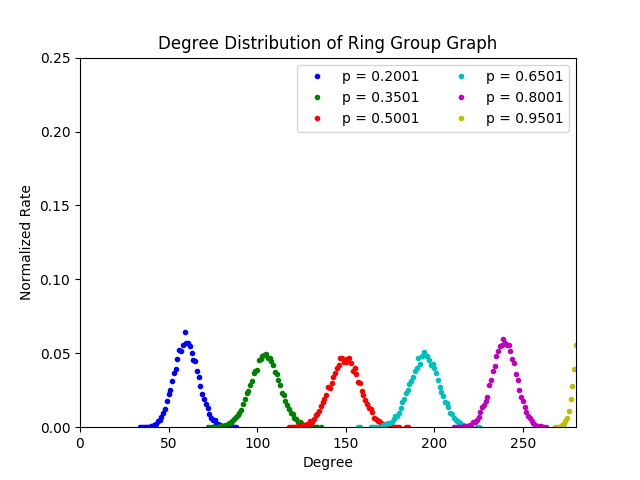
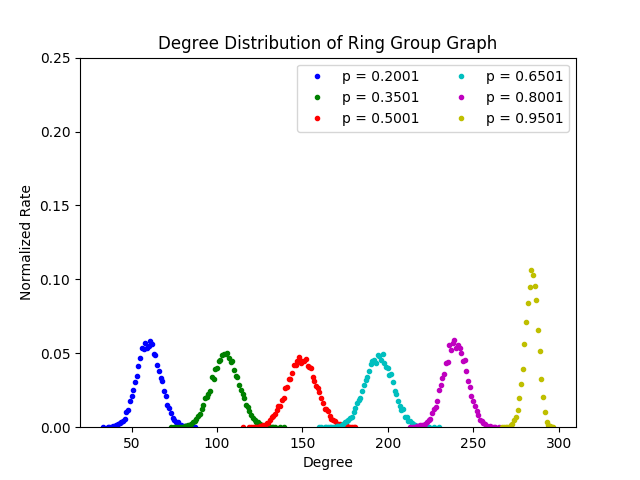
added more graphs for q1 (m=6)

Changed region(s): [[0.1562, 0.5625, 0.9062, 0.9375]]

diff --git a/q1-ring-group-graphs.py b/q1-ring-group-graphs.py
@@ -116,7 +116,7 @@ def create_n_degree_distribution_plot(degree_distributions, plot_file_name, plot
     plt.clf()
 
     plt.ylim(0,0.25)
-    plt.xlim(0,280)
+    # plt.xlim(0,280)
 
     # plot degree distribution
     plt.xlabel('Degree')
@@ -129,9 +129,10 @@ def create_n_degree_distribution_plot(degree_distributions, plot_file_name, plot
         for deg in dd:
             xdata += [deg]
             ydata += [dd[deg]]
-        plt.plot(xdata, ydata, marker='.', linestyle='None', color=colours[i % num_colours], label='p = ' + str(p))
+        plt.plot(xdata, ydata, marker='.', linestyle='None', color=colours[i % num_colours], label='p = ' + str(p)
+                                                                                                   + ', q = ' + str(q))
         i += 1
-    plt.legend(loc='upper right', ncol=2)
+    plt.legend(loc='upper right', ncol=1)
     plt.savefig('distributions/' + plot_file_name + '.png')
 
 
@@ -244,54 +245,54 @@ def main_dia():
 def main_dd():
     m = 6
     k = 100
-    q = 0.0001
+    # q = 0.0001
 
-    for i in range(4):
-        # rgg_dict = {}
-        mGreater_dd = []
-        kGreater_dd = []
-
-        for j in range(20, int(round(100 - q*100)), 15):
-            p = round(q + j / 100, 7)
-            val1 = average_normalized_degree_distribution(25, m, k, p, q)
-            if val1 is not -1:
-                mGreater_dd += [(m,k,p,q,val1)]
-            val2 = average_normalized_degree_distribution(25, k, m, p, q)
-            if val2 is not -1:
-                kGreater_dd += [(m,k,p,q,val2)]
-            print(i,j,p)
-
-        create_n_degree_distribution_plot(mGreater_dd, 'q1/prob-p/' + str(m) + '-' + str(k) + '-' + str(q), 'Ring Group Graph')
-        create_n_degree_distribution_plot(kGreater_dd, 'q1/prob-p/' + str(k) + '-' + str(m) + '-' + str(q), 'Ring Group Graph')
-
-        q *= 10
-
-    # q = 0.001
-    #
-    # for i in range(3):
+    # for i in range(4):
     #     # rgg_dict = {}
     #     mGreater_dd = []
     #     kGreater_dd = []
     #
-    #     p = round(0.5 - q, 3)
-    #     temp_q = round(q, 3)
-    #
-    #     while p > temp_q:
-    #         val1 = average_normalized_degree_distribution(25, m, k, p, temp_q)
+    #     for j in range(20, int(round(100 - q*100)), 15):
+    #         p = round(q + j / 100, 7)
+    #         val1 = average_normalized_degree_distribution(25, m, k, p, q)
     #         if val1 is not -1:
-    #             mGreater_dd += [(m, k, p, temp_q, val1)]
-    #         val2 = average_normalized_degree_distribution(25, k, m, p, temp_q)
-    #         if val2 is not -1:
-    #             kGreater_dd += [(m, k, p, temp_q, val2)]
+    #             mGreater_dd += [(m,k,p,q,val1)]
+    #         # val2 = average_normalized_degree_distribution(25, k, m, p, q)
+    #         # if val2 is not -1:
+    #         #     kGreater_dd += [(m,k,p,q,val2)]
+    #         print(i,j,p)
     #
-    #         temp_q = round(temp_q + 0.05, 3)
-    #         p = round(0.5 - temp_q, 3)
-    #         print(i,p,temp_q)
-    #
-    #     create_n_degree_distribution_plot(kGreater_dd, 'q1/' + str(k) + '-' + str(m) + '-' + str(q), 'Ring Group Graph')
-    #     create_n_degree_distribution_plot(mGreater_dd, 'q1/' + str(m) + '-' + str(k) + '-' + str(q), 'Ring Group Graph')
+    #     create_n_degree_distribution_plot(mGreater_dd, 'q1/prob-p/' + str(m) + '-' + str(k) + '-' + str(q), 'Ring Group Graph')
+    #     # create_n_degree_distribution_plot(kGreater_dd, 'q1/prob-p/' + str(k) + '-' + str(m) + '-' + str(q), 'Ring Group Graph')
     #
     #     q *= 10
+
+    q = 0.001
+
+    for i in range(3):
+        # rgg_dict = {}
+        mGreater_dd = []
+        kGreater_dd = []
+
+        p = round(0.5 - q, 3)
+        temp_q = round(q, 3)
+
+        while p > temp_q:
+            val1 = average_normalized_degree_distribution(25, m, k, p, temp_q)
+            if val1 is not -1:
+                mGreater_dd += [(m, k, p, temp_q, val1)]
+            # val2 = average_normalized_degree_distribution(25, k, m, p, temp_q)
+            # if val2 is not -1:
+            #     kGreater_dd += [(m, k, p, temp_q, val2)]
+
+            temp_q = round(temp_q + 0.05, 3)
+            p = round(0.5 - temp_q, 3)
+            print(i,p,temp_q)
+
+        # create_n_degree_distribution_plot(kGreater_dd, 'q1/' + str(k) + '-' + str(m) + '-' + str(q), 'Ring Group Graph')
+        create_n_degree_distribution_plot(mGreater_dd, 'q1/' + str(m) + '-' + str(k) + '-' + str(q), 'Ring Group Graph')
+
+        q *= 10
 
 
 main_dd()
